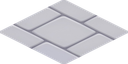
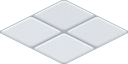
Тротуар переробено: рівні плити замість хаотичного каменю
- tools/make_tiles.py: тротуар тепер малюється кодом (великі заокруглені
  плити з м якою фаскою, сітка точно повторюється кожен тайл), три варіанти:
  2x2, цегляна кладка, 2x2 з іншим розкидом тонів
- решта тайлів без змін

diff --git a/tools/make_tiles.py b/tools/make_tiles.py
@@ -87,6 +87,73 @@ def seamless(im, band=0.22):
     return Image.fromarray(np.clip(rolled * (1 - mask) + arr * mask, 0, 255).astype(np.uint8))
 
 
+def box_blur(a, r):
+    """Separable box blur with wrap-free edges (the canvas is 3x3 tiles, only the centre is used)."""
+    k = 2 * r + 1
+    for axis in (0, 1):
+        pad = np.pad(a, [(r, r) if i == axis else (0, 0) for i in range(2)], mode='edge')
+        c = np.cumsum(pad, axis=axis, dtype=np.float64)
+        c = np.concatenate([np.zeros_like(np.take(c, [0], axis=axis)), c], axis=axis)
+        a = (np.take(c, range(k, c.shape[axis]), axis=axis) - np.take(c, range(0, c.shape[axis] - k), axis=axis)) / k
+    return a
+
+
+def gauss(a, r):
+    for _ in range(3):
+        a = box_blur(a, max(1, r // 2))
+    return a
+
+
+def pavement(kind, seed):
+    """Clean rounded paving slabs with a soft clay bevel. Slab edges sit on a grid that repeats exactly every tile."""
+    import random
+    rnd = random.Random(seed)
+    N = 3 * S
+    gap, rad = 14, 20
+    slabs = []  # (x0, y0, x1, y1) in tile units, 0..1 repeating
+    if kind == 'grid2':  # 2x2 square slabs
+        for i in range(-2, 5):
+            for j in range(-2, 5):
+                slabs.append((i / 2, j / 2, (i + 1) / 2, (j + 1) / 2))
+    elif kind == 'brick':  # running bond, two rows per tile
+        for j in range(-2, 5):
+            off = 0.25 if j % 2 else 0
+            for i in range(-3, 5):
+                slabs.append((i / 2 + off, j / 2, (i + 1) / 2 + off, (j + 1) / 2))
+    elif kind == 'grid3':  # 3x3 smaller square slabs
+        for i in range(-3, 7):
+            for j in range(-3, 7):
+                slabs.append((i / 3, j / 3, (i + 1) / 3, (j + 1) / 3))
+    mask = Image.new('L', (N, N), 0)
+    tone = np.zeros((N, N), dtype=np.float32)
+    toneimg = Image.new('F', (N, N), 0)
+    d = ImageDraw.Draw(mask)
+    dt = ImageDraw.Draw(toneimg)
+    tones = {}
+    for (x0, y0, x1, y1) in slabs:
+        # tone repeats with the tile, so the key is taken modulo one tile
+        key = (round(x0 % 1, 3), round(y0 % 1, 3))
+        if key not in tones:
+            tones[key] = rnd.uniform(-7, 7)
+        box = [S + x0 * S + gap / 2, S + y0 * S + gap / 2, S + x1 * S - gap / 2 - 1, S + y1 * S - gap / 2 - 1]
+        d.rounded_rectangle(box, rad, fill=255)
+        dt.rounded_rectangle(box, rad, fill=tones[key])
+    m = np.asarray(mask).astype(np.float32) / 255
+    tone = np.asarray(toneimg)
+    h = gauss(m, 14)
+    gy, gx = np.gradient(h)
+    lit = (gx + gy) * 420  # light from the top-left
+    ma = gauss(m, 2)
+    base = np.array([224, 227, 231], dtype=np.float32)
+    joint = np.array([172, 178, 187], dtype=np.float32)
+    col = base[None, None, :] + tone[..., None] + lit[..., None]
+    col = col * ma[..., None] + joint[None, None, :] * (1 - ma[..., None])
+    noise = gauss(np.random.RandomState(seed).randn(N, N).astype(np.float32), 1) * 9
+    col = col + noise[..., None]
+    out = np.clip(col[S:2 * S, S:2 * S], 0, 255).astype(np.uint8)
+    return Image.fromarray(out)
+
+
 def road_dash(asphalt):
     """A short soft dash lying along +x, close to the tile's y=0 edge (where the game's centre line is)."""
     im = asphalt.convert('RGBA')
@@ -139,6 +206,8 @@ def main():
         sq = sq.crop((0, 0, side, side)).resize((S, S), Image.LANCZOS)
         if mode in ('noise', 'road'):
             sq = seamless(flatten(sq))
+        if name.startswith('pavement'):
+            sq = pavement({'pavement_1': 'grid2', 'pavement_2': 'brick', 'pavement_3': 'grid2'}[name], i)
         if name == 'road_dash':
             # the dash is drawn here, so use the plain asphalt (same crop as 'road', flipped to differ a little)
             plain = tiles['road_tex']
